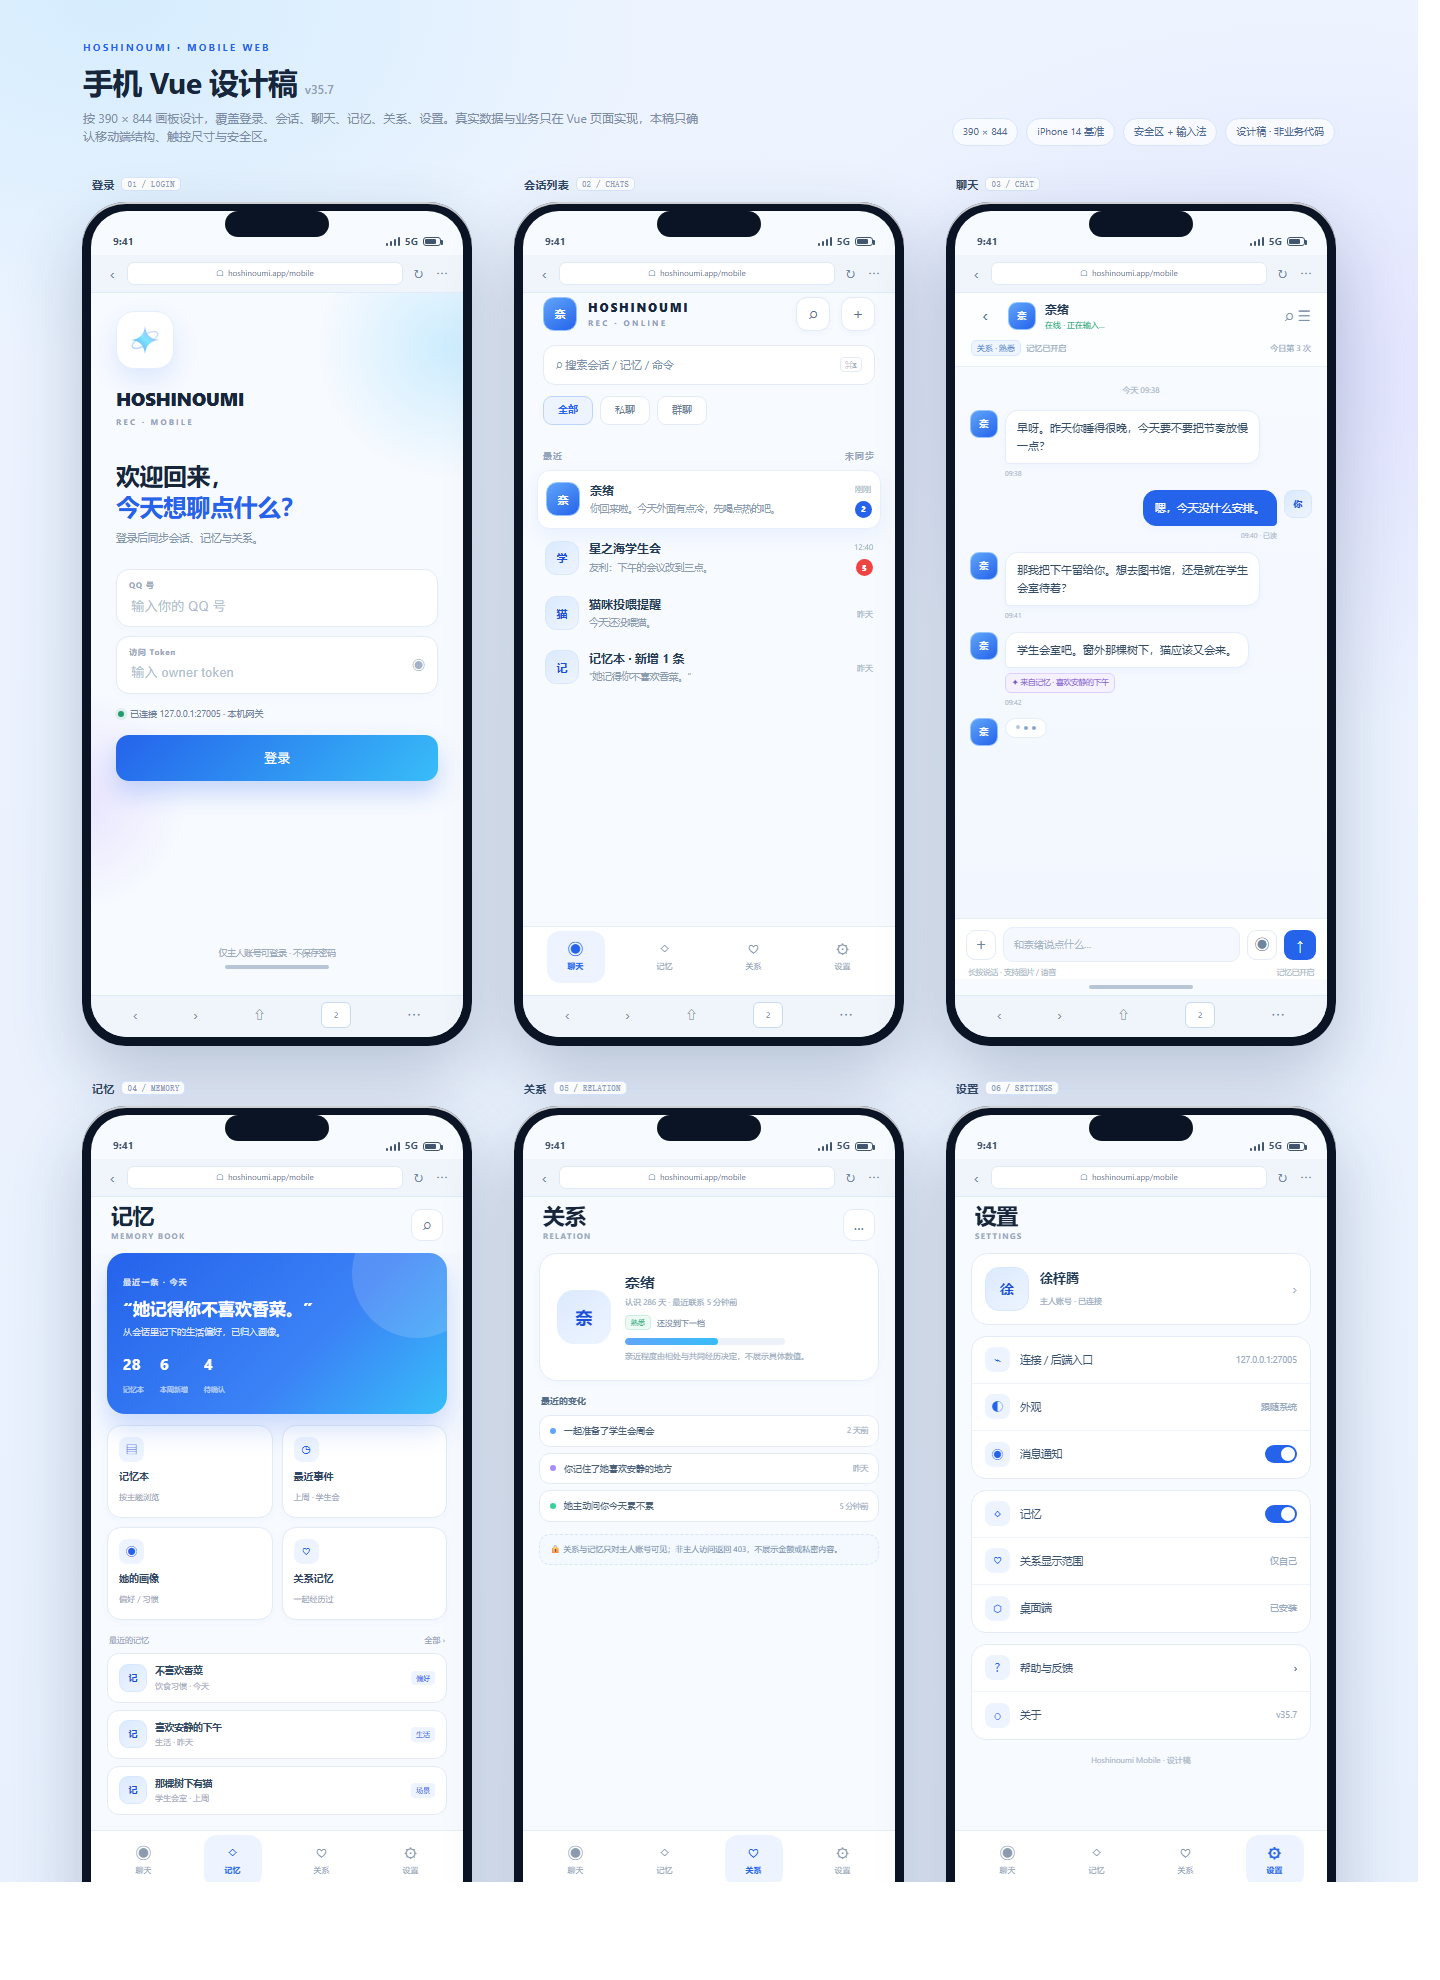
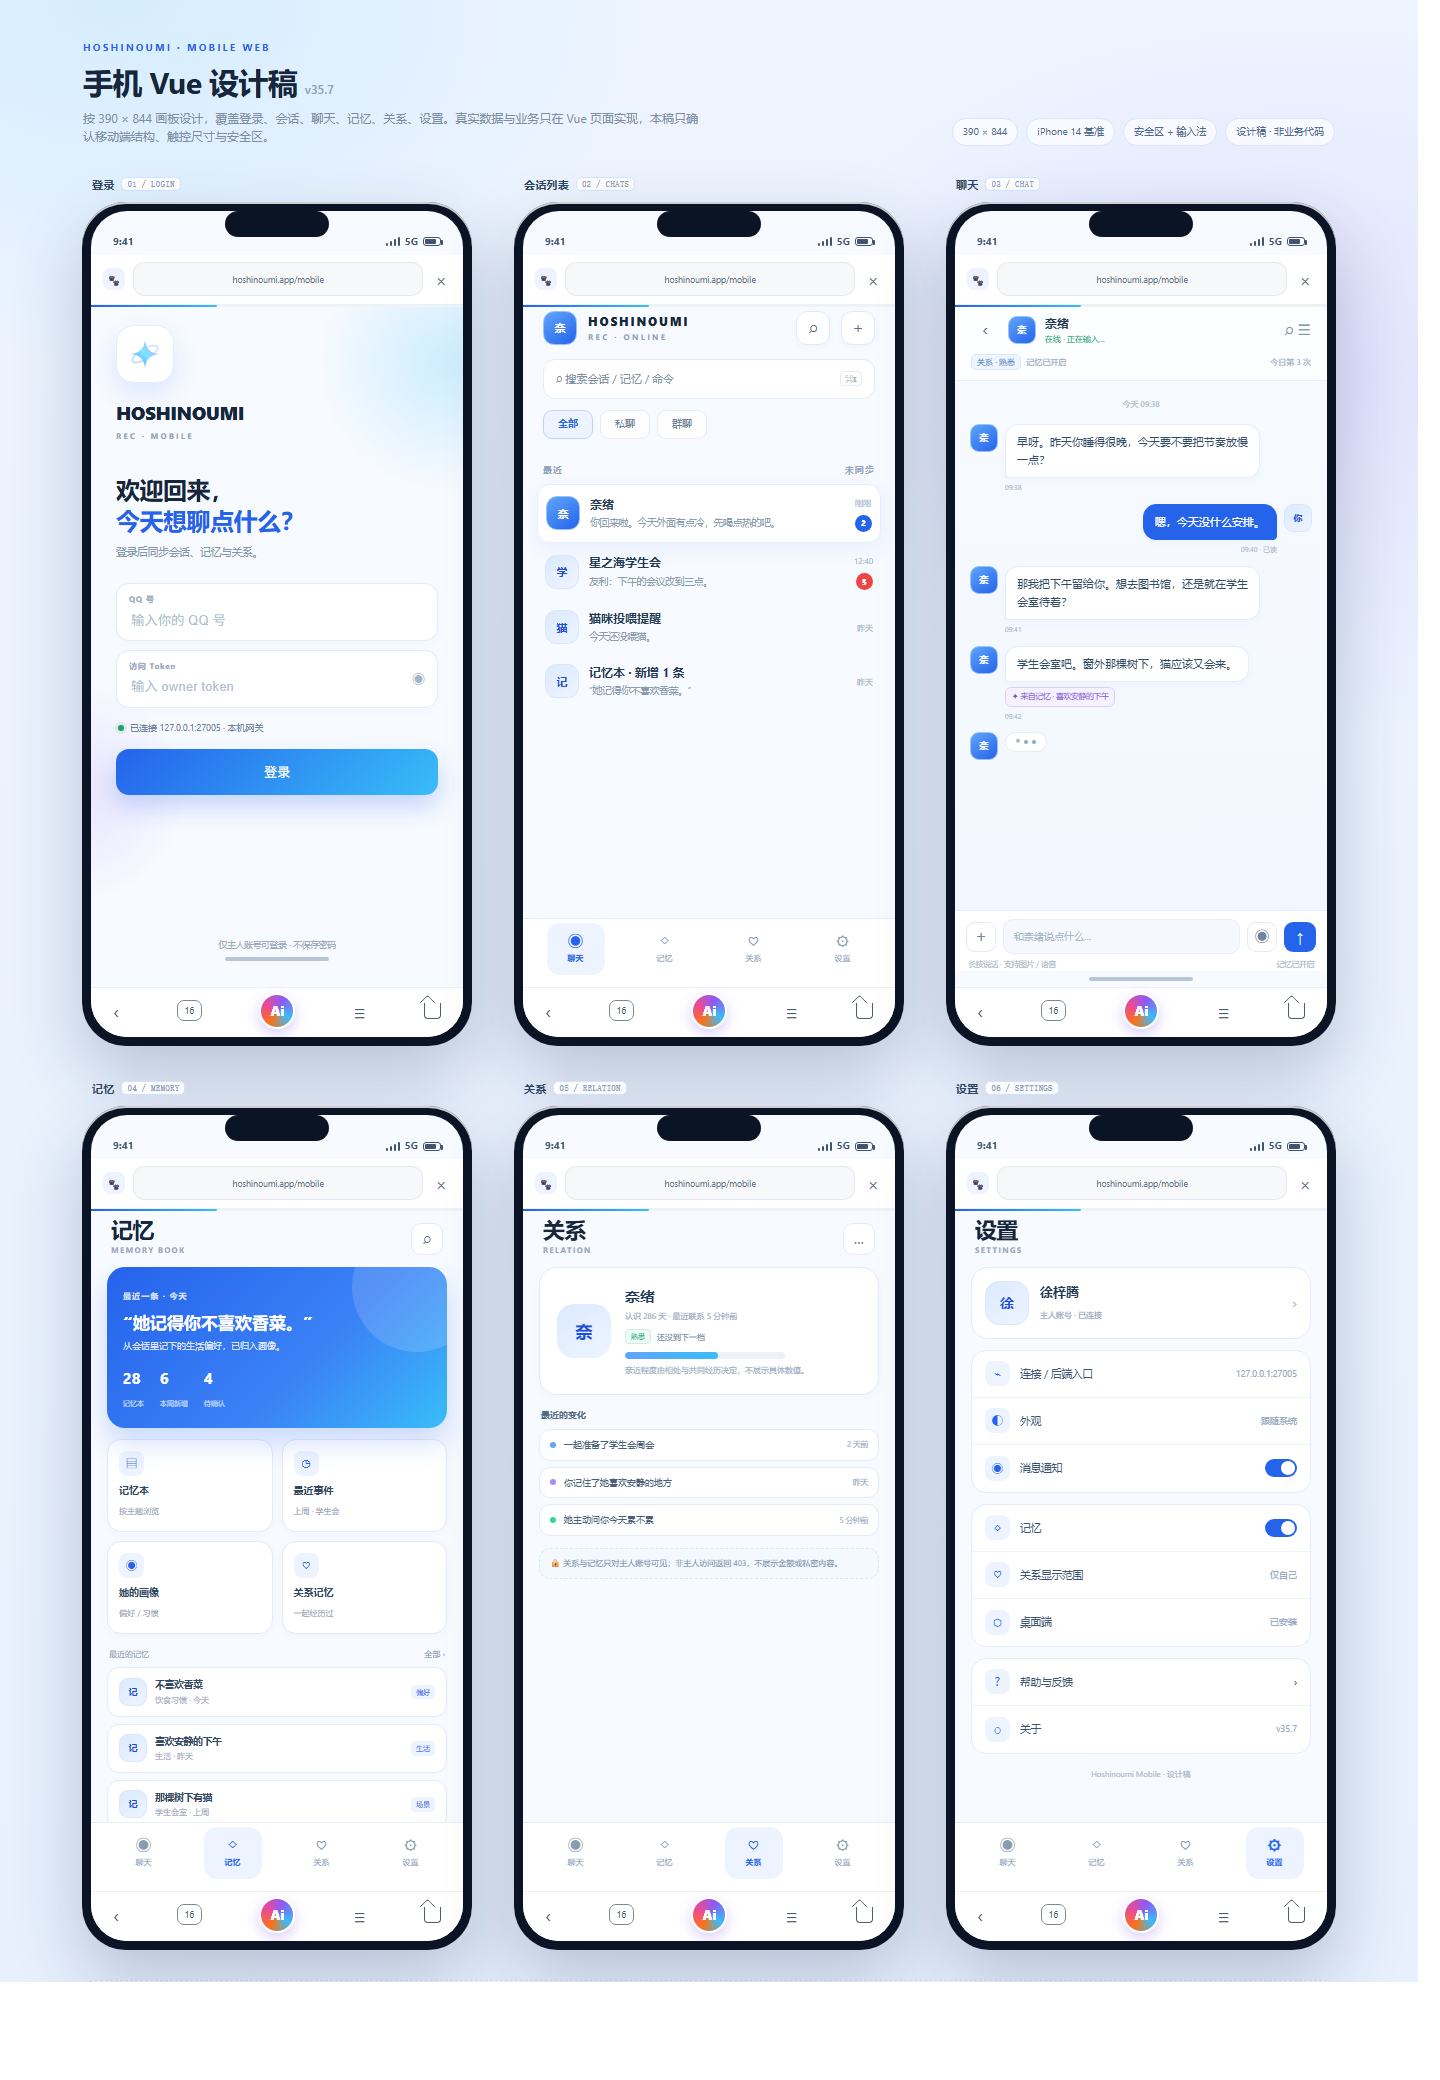
docs(v35.7): 按实际手机浏览器结构更新设计稿

diff --git a/docs/design/v35/mobile/mobile.css b/docs/design/v35/mobile/mobile.css
@@ -165,12 +165,14 @@ h1{font-size:30px;line-height:1.2;margin:0 0 9px;letter-spacing:-.02em}
 .note{max-width:1320px;margin:30px auto 0;padding:14px 18px;border:1px dashed #cfdfff;background:rgba(255,255,255,.55);border-radius:12px;color:#7188a3;font-size:10px;line-height:1.8}
 @media (max-width:1300px){body{min-width:0}.board{grid-template-columns:repeat(2,390px)}}
 
-/* browser viewport chrome */
-.browser-top{height:38px;flex:none;display:flex;align-items:center;gap:6px;padding:0 12px;background:#f0f5fc;border-bottom:1px solid #e1eafa}
-.browser-top .b-back{width:18px;text-align:center;color:#7086a1;font-size:15px;line-height:1}
-.browser-top .b-url{flex:1;height:23px;border-radius:7px;background:#fff;border:1px solid #dfe9f7;display:flex;align-items:center;justify-content:center;gap:4px;color:#6d829c;font-size:8px;letter-spacing:.01em}
-.browser-top .b-url:before{content:"⌂";font-size:8px;color:#8da3bc}
-.browser-top .b-icon{width:18px;text-align:center;color:#7086a1;font-size:12px;line-height:1}
-.browser-bottom{height:42px;flex:none;display:flex;align-items:center;justify-content:space-around;background:#f0f5fc;border-top:1px solid #e1eafa;color:#7086a1;font-size:14px;padding:0 14px 3px}
-.browser-bottom .b-tab{display:flex;align-items:center;justify-content:center;width:30px;height:26px;border:1px solid #cad9ee;border-radius:6px;font-size:8px;color:#6d829c;background:#fff}
-.browser-bottom .b-share{font-size:12px}
+/* browser viewport chrome: phone-like single-tab browser */
+.browser-top{height:50px;flex:none;display:flex;align-items:center;gap:8px;padding:0 12px;background:#fff;border-bottom:1px solid #edf1f6}
+.browser-top .b-site{width:22px;height:22px;border-radius:7px;background:#eef4ff;display:grid;place-items:center;color:#2563eb;font-size:11px;flex:none}
+.browser-top .b-address{flex:1;height:34px;border:1px solid #e4e9f0;border-radius:11px;background:#f7f8fa;display:flex;align-items:center;justify-content:center;color:#68778a;font-size:8.5px;letter-spacing:.01em}
+.browser-top .b-close{width:20px;text-align:center;color:#6f7d8e;font-size:17px;line-height:1}
+.browser-progress{height:2px;flex:none;background:#eef3f8}.browser-progress i{display:block;height:100%;width:34%;background:linear-gradient(90deg,#2563eb,#38bdf8);border-radius:0 2px 2px 0}
+.browser-bottom{height:50px;flex:none;display:flex;align-items:center;justify-content:space-between;background:#fff;border-top:1px solid #edf1f6;padding:0 22px 3px;color:#4f5d70}
+.browser-bottom .b-nav{font-size:20px;line-height:1;color:#4f5d70}
+.browser-bottom .b-tab{min-width:25px;height:21px;padding:0 5px;border:1.5px solid #7b8796;border-radius:7px;display:grid;place-items:center;font-size:9px;color:#4f5d70;background:#fff}
+.browser-bottom .b-ai{width:36px;height:36px;border-radius:50%;display:grid;place-items:center;color:#fff;font-size:13px;font-weight:850;background:conic-gradient(from 210deg,#f97316,#ec4899,#8b5cf6,#38bdf8,#f97316);box-shadow:0 5px 14px rgba(139,92,246,.3);border:2px solid #fff}
+.browser-bottom .b-home{width:17px;height:16px;border:1.7px solid #4f5d70;border-top:0;border-radius:0 0 4px 4px;position:relative}.browser-bottom .b-home:before{content:"";position:absolute;left:-3px;top:-6px;width:10px;height:10px;border-left:1.7px solid #4f5d70;border-top:1.7px solid #4f5d70;transform:rotate(45deg);border-radius:2px 0 0 0}

diff --git a/docs/design/v35/mobile/hoshinoumi-mobile-v35.7-demo.html b/docs/design/v35/mobile/hoshinoumi-mobile-v35.7-demo.html
@@ -27,7 +27,7 @@ body{margin:0;min-height:100vh;background:radial-gradient(900px 600px at 20% 0%,
 .demo-caption{font-size:9px;color:#9aabc0;margin-top:10px;letter-spacing:.02em}
 .screen-body.d-view{display:flex;flex-direction:column;height:100%;min-height:0}
 .d-view>.login{flex:1}
-.toast{position:absolute;left:50%;bottom:108px;transform:translateX(-50%) translateY(8px);background:rgba(15,30,52,.9);color:#fff;border-radius:9px;padding:8px 12px;font-size:9px;opacity:0;transition:.2s;pointer-events:none;z-index:20;white-space:nowrap}
+.toast{position:absolute;left:50%;bottom:118px;transform:translateX(-50%) translateY(8px);background:rgba(15,30,52,.9);color:#fff;border-radius:9px;padding:8px 12px;font-size:9px;opacity:0;transition:.2s;pointer-events:none;z-index:20;white-space:nowrap}
 .toast.on{opacity:1;transform:translateX(-50%) translateY(0)}
 .hide{display:none!important}
 @media(max-width:860px){.demo-page{grid-template-columns:1fr;justify-items:center}.demo-side{text-align:center}.demo-side p,.demo-note{margin-left:auto;margin-right:auto}.demo-screen-list{justify-content:center}.demo-stage{max-width:390px}}
@@ -73,9 +73,10 @@ body{margin:0;min-height:100vh;background:radial-gradient(900px 600px at 20% 0%,
     <div class="demo-title">HOSHINOUMI MOBILE <span>· v35.7 交互演示</span></div>
     <div class="phone"><div class="island"></div><div class="screen" id="app">
       <div class="statusbar"><span>9:41</span><div class="right"><span class="sig"><i></i><i></i><i></i><i></i></span><span>5G</span><div class="battery"></div></div></div>
-      <div class="browser-top"><span class="b-back" onclick="toast('浏览器返回演示')">‹</span><span class="b-url">hoshinoumi.app/mobile</span><span class="b-icon" onclick="toast('刷新演示')">↻</span><span class="b-icon" onclick="toast('浏览器菜单演示')">⋯</span></div>
+      <div class="browser-top"><span class="b-site">🐾</span><span class="b-address">hoshinoumi.app/mobile</span><span class="b-close" onclick="toast('关闭页面演示')">×</span></div>
+      <div class="browser-progress"><i></i></div>
       <div class="screen-body d-view" id="view"></div>
-      <div class="browser-bottom"><span onclick="toast('浏览器后退演示')">‹</span><span onclick="toast('浏览器前进演示')">›</span><span class="b-share" onclick="toast('分享页面演示')">⇧</span><span class="b-tab" onclick="toast('标签页演示')">2</span><span onclick="toast('浏览器菜单演示')">⋯</span></div>
+      <div class="browser-bottom"><span class="b-nav" onclick="toast('浏览器后退演示')">‹</span><span class="b-tab" onclick="toast('标签页演示 · 16')">16</span><span class="b-ai" onclick="toast('浏览器 AI 演示')">Ai</span><span class="b-nav" onclick="toast('浏览器菜单演示')">≡</span><span class="b-home" onclick="toast('浏览器主页演示')"></span></div>
       <div class="toast" id="toast"></div>
     </div></div>
     <div class="demo-caption">390 × 844 · 设计演示，非真实数据</div>

diff --git a/docs/design/v35/mobile/hoshinoumi-mobile-v35.7.html b/docs/design/v35/mobile/hoshinoumi-mobile-v35.7.html
@@ -199,11 +199,15 @@ document.querySelectorAll('.phone .screen').forEach(screen => {
   if (!status) return
   const top = document.createElement('div')
   top.className = 'browser-top'
-  top.innerHTML = '<span class="b-back">‹</span><span class="b-url">hoshinoumi.app/mobile</span><span class="b-icon">↻</span><span class="b-icon">⋯</span>'
+  top.innerHTML = '<span class="b-site">🐾</span><span class="b-address">hoshinoumi.app/mobile</span><span class="b-close">×</span>'
   status.insertAdjacentElement('afterend', top)
+  const progress = document.createElement('div')
+  progress.className = 'browser-progress'
+  progress.innerHTML = '<i></i>'
+  top.insertAdjacentElement('afterend', progress)
   const bottom = document.createElement('div')
   bottom.className = 'browser-bottom'
-  bottom.innerHTML = '<span>‹</span><span>›</span><span class="b-share">⇧</span><span class="b-tab">2</span><span>⋯</span>'
+  bottom.innerHTML = '<span class="b-nav">‹</span><span class="b-tab">16</span><span class="b-ai">Ai</span><span class="b-nav">≡</span><span class="b-home"></span>'
   screen.appendChild(bottom)
 })
 </script>

diff --git a/docs/design/v35/mobile/README.md b/docs/design/v35/mobile/README.md
@@ -30,14 +30,20 @@ hoshinoumi-mobile-v35.7.png         六屏渲染图
 
 ## 浏览器视口规则
 
-这是手机浏览器 Web，不是独立客户端：
+这是手机浏览器 Web，不是独立客户端。浏览器结构按实际手机浏览器：
 
 ```text
-不请求全屏，不隐藏浏览器地址栏/工具栏
+顶部：状态栏 → 地址胶囊（站点图标 + URL）→ 关闭 × → 加载进度线
+底部：后退 ‹ / 标签数 / 中央圆形 Ai / 菜单 ≡ / 主页
+页面内容只占中间浏览器视口
+```
+
+```text
+不请求全屏，不隐藏浏览器 UI
 页面高度用 100dvh，兼容地址栏收放
-底部导航在浏览器工具栏上方
-safe-area 仅处理刘海/Home Indicator，不假设独占屏幕
-滚动容器交给浏览器页面，不用 fixed 全屏壳
+底部应用导航在浏览器工具栏上方
+safe-area 仅处理刘海 / Home Indicator
+滚动交给浏览器页面，不用 fixed 全屏壳
 ```
 
 ## 移动端规则
